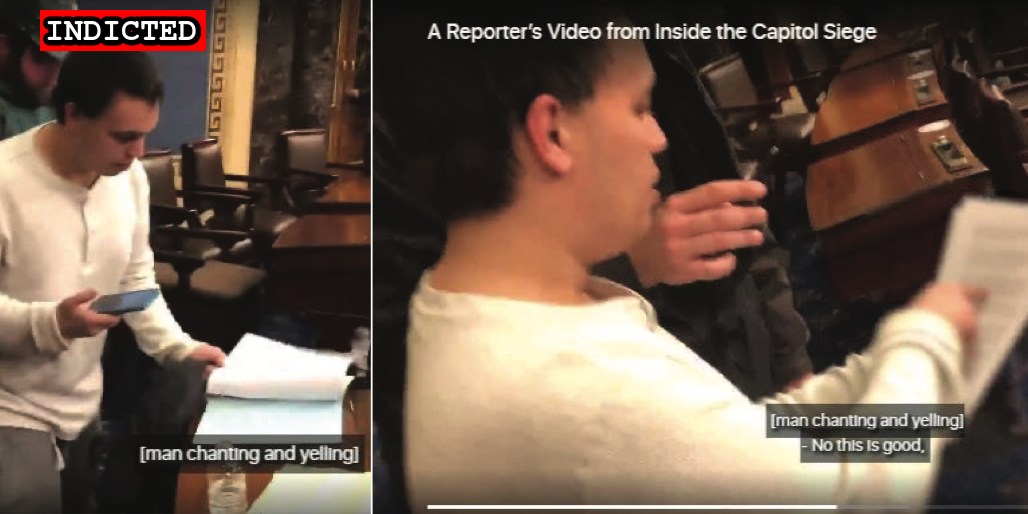
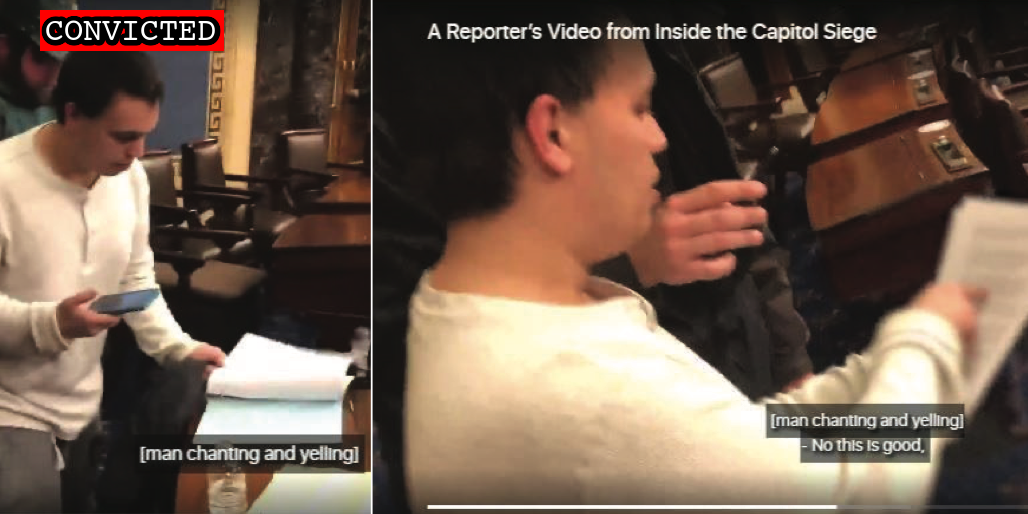
More convictions

Changed region(s): [[0.0311, 0.0, 0.2179, 0.1245]]

diff --git a/commands/common/suspect.ts b/commands/common/suspect.ts
@@ -28,6 +28,7 @@ export interface Suspect {
   deceased?: string;
   plea_hearing?: string;
   trial_date?: string;
+  trial_type?: string;
   sentencing?: string;
   name?: string;
   lastName?: string;
@@ -176,6 +177,10 @@ export const getSuspectByFile = (filename: string) => {
     suspect.quote = RegExp.$1;
   }
 
+  if (data.match(/trial_type: (.*)/)) {
+    suspect.trial_type = RegExp.$1;
+  }
+
   suspect.charges = getCharges(data.split("---")[1].trim());
   suspect.videos = getVideos(data.split("---")[1].trim());
   suspect.sentence = getSentence(data.split("---")[1].trim());
@@ -203,6 +208,7 @@ export const updateSuspect = (suspect: Suspect) => {
   lines.push(`deceased: ${suspect.deceased}`);
   lines.push(`plea_hearing: ${suspect.plea_hearing}`);
   lines.push(`trial_date: ${suspect.trial_date}`);
+  lines.push(`trial_type: ${suspect.trial_type}`);
   lines.push(`sentencing: ${suspect.sentencing}`);
   lines.push(`age: ${suspect.age}`);
   lines.push(`occupation: ${suspect.occupation}`);

diff --git a/commands/sheet-publish.ts b/commands/sheet-publish.ts
@@ -43,6 +43,7 @@ const publishSheet = async () => {
     "Indicted",
     "Plea Hearing",
     "Trial Date",
+    "Trial Type",
     "Convicted",
     "Sentencing",
     "Sentenced",
@@ -66,7 +67,7 @@ const publishSheet = async () => {
   const headerFormat: TextFormat = {
     bold: true,
   };
-  await suspectSheet.loadCells("A1:AB1");
+  await suspectSheet.loadCells("A1:AC1");
 
   SUSPECT_HEADERS.forEach((_value, index) => {
     const cell = suspectSheet.getCell(0, index);
@@ -106,6 +107,7 @@ const publishSheet = async () => {
       Indicted: suspect.indicted,
       "Plea Hearing": suspect.plea_hearing,
       "Trial Date": suspect.trial_date,
+      "Trial Type": suspect.trial_type,
       Convicted: suspect.convicted,
       Sentencing: suspect.sentencing,
       Sentenced: suspect.sentenced,

diff --git a/docs/_layouts/suspect.html b/docs/_layouts/suspect.html
@@ -32,6 +32,8 @@ layout: default
   <div>Indicted: <small>{{ page.indicted | date: "%Y-%m-%d"}}</small></div>
   {% endif %} {% if page.trial_date %}
   <div>Trial Date: <small>{{ page.trial_date | date: "%Y-%m-%d"}}</small></div>
+  {% endif %} {% if page.trial_type %}
+  <div>Trial Type: <small>{{ page.trial_type }}</small></div>
   {% endif %} {% if page.acquitted %}
   <div>Acquitted: <small>{{ page.acquitted | date: "%Y-%m-%d"}}</small></div>
   {% endif %} {% if page.convicted %}

diff --git a/docs/_suspects/dustin-thompson.md b/docs/_suspects/dustin-thompson.md
@@ -15,6 +15,7 @@ dismissed:
 deceased:
 plea_hearing: 2022-04-14
 trial_date: 2022-04-12
+trial_type: Jury
 sentencing:
 age: 36
 occupation:
@@ -36,32 +37,33 @@ published: true
 caseNumber: 1:21-cr-161
 videos:
 charges:
-- code: 18 USC § 1512(c)(2)
-  title: Obstruction of an Official Proceeding
-  url: https://www.law.cornell.edu/uscode/text/18/1512
-  felony: true
-- code: 18 USC § 641
-  title: Theft of Government Property
-  url: https://www.law.cornell.edu/uscode/text/18/641
-  felony: false
-- code: 18 USC § 1752(a)(1)
-  title: Entering a restricted building or grounds
-  url: https://www.law.cornell.edu/uscode/text/18/1752
-  felony: false
-- code: 18 USC § 1752(a)(2)
-  title: Disorderly and Disruptive Conduct in a Restricted Building or Grounds
-  url: https://www.law.cornell.edu/uscode/text/18/1752
-  felony:
-- code: 40 USC § 5104(e)(2)(D)
-  title: Disorderly Conduct in a Capitol Building
-  url: https://www.law.cornell.edu/uscode/text/40/5104
-  felony: false
-- code: 40 USC § 5104(e)(2)(G)
-  title: Parading, demonstrating or picketing in a Capitol building
-  url: https://www.law.cornell.edu/uscode/text/40/5104
-  felony: false
+  - code: 18 USC § 1512(c)(2)
+    title: Obstruction of an Official Proceeding
+    url: https://www.law.cornell.edu/uscode/text/18/1512
+    felony: true
+  - code: 18 USC § 641
+    title: Theft of Government Property
+    url: https://www.law.cornell.edu/uscode/text/18/641
+    felony: false
+  - code: 18 USC § 1752(a)(1)
+    title: Entering a restricted building or grounds
+    url: https://www.law.cornell.edu/uscode/text/18/1752
+    felony: false
+  - code: 18 USC § 1752(a)(2)
+    title: Disorderly and Disruptive Conduct in a Restricted Building or Grounds
+    url: https://www.law.cornell.edu/uscode/text/18/1752
+    felony:
+  - code: 40 USC § 5104(e)(2)(D)
+    title: Disorderly Conduct in a Capitol Building
+    url: https://www.law.cornell.edu/uscode/text/40/5104
+    felony: false
+  - code: 40 USC § 5104(e)(2)(G)
+    title: Parading, demonstrating or picketing in a Capitol building
+    url: https://www.law.cornell.edu/uscode/text/40/5104
+    felony: false
 sentence:
 ---
+
 - [News Report](https://www.fox19.com/2021/01/26/fbi-more-ohioans-charged-violent-us-capitol-protest/)
 - [Complaint](https://www.justice.gov/opa/page/file/1361301/download)
 - [Statement of Facts](https://www.justice.gov/opa/page/file/1361301/download)

diff --git a/docs/_suspects/christopher-moynihan.md b/docs/_suspects/christopher-moynihan.md
@@ -4,15 +4,18 @@ lastName: Moynihan
 hashtag: ChristopherMoynihan
 aka:
 residence: New York
-status: Indicted
+status: Convicted
 date: 2021-02-25
 charged: 2021-02-25
 indicted: 2021-03-17
-convicted:
+convicted: 2022-08-23
+acquitted:
 sentenced:
 dismissed:
 deceased:
 plea_hearing: 2022-08-23
+trial_date:
+trial_type:
 sentencing:
 age: 30
 occupation:
@@ -34,6 +37,30 @@ published: true
 caseNumber: 1:21-cr-226
 videos:
 charges:
+  - code: 18 USC § 1512(c)(2),2
+    title: Obstruction of an Official Proceeding (Aiding and Abetting)
+    url: https://www.law.cornell.edu/uscode/text/18/1512
+    felony: true
+  - code: 18 USC § 1752(a)(1)
+    title: Entering a restricted building or grounds
+    url: https://www.law.cornell.edu/uscode/text/18/1752
+    felony: false
+  - code: 18 USC § 1752(a)(2)
+    title: Disorderly and disruptive conduct in a restricted building or grounds
+    url: https://www.law.cornell.edu/uscode/text/18/1752
+    felony: false
+  - code: 40 USC § 5104(e)(2)(A)
+    title: Entering and Remaining on the Floor of Congress
+    url: https://www.law.cornell.edu/uscode/text/40/5104
+    felony: false
+  - code: 40 USC § 5104(e)(2)(D)
+    title: Disorderly Conduct in a Capitol Building
+    url: https://www.law.cornell.edu/uscode/text/40/5104
+    felony: false
+  - code: 40 USC § 5104(e)(2)(G)
+    title: Parading, demonstrating or picketing in a Capitol building
+    url: https://www.law.cornell.edu/uscode/text/40/5104
+    felony: false
 sentence:
 ---
 
@@ -42,3 +69,4 @@ sentence:
 - [FBI Statement (Twitter)](https://twitter.com/NewYorkFBI/status/1365060189255311367)
 - [Statement of Facts](https://www.justice.gov/usao-dc/case-multi-defendant/file/1379046/download)
 - [Indictment](https://www.justice.gov/usao-dc/case-multi-defendant/file/1379051/download)
+- [DOJ Statement (Conviction)](https://www.justice.gov/usao-dc/pr/new-york-man-found-guilty-felony-charge-actions-during-jan-6-capitol-breach)

diff --git a/docs/_suspects/william-reid.md b/docs/_suspects/william-reid.md
@@ -12,8 +12,10 @@ convicted:
 sentenced:
 dismissed:
 deceased:
-plea_hearing: 2022-08-23
-sentencing:
+plea_hearing:
+trial_date: 2022-08-23
+trial_type: Stipulated Bench Trial
+sentencing: 2022-12-07
 age: 36
 occupation:
 affiliations:
@@ -35,8 +37,29 @@ caseNumber: 1:21-cr-316
 videos:
 charges:
 sentence:
+  - code: 18 USC § 1752(a)(1)
+    title: Entering a restricted building or grounds
+    url: https://www.law.cornell.edu/uscode/text/18/1752
+    felony: false
+  - code: 18 USC § 1752(a)(2)
+    title: Disorderly and disruptive conduct in a restricted building or grounds
+    url: https://www.law.cornell.edu/uscode/text/18/1752
+    felony: false
+  - code: 40 USC § 5104(e)(2)(D)
+    title: Disorderly Conduct in a Capitol Building
+    url: https://www.law.cornell.edu/uscode/text/40/5104
+    felony: false
+  - code: 40 USC § 5104(e)(2)(G)
+    title: Parading, demonstrating or picketing in a Capitol building
+    url: https://www.law.cornell.edu/uscode/text/40/5104
+    felony: false
+  - code: 18 USC § 1512(c)(1)
+    title: Corruptly Altering, Destroying, Mutilating, or Concealing a Record, Document or Other Object
+    url: https://www.law.cornell.edu/uscode/text/18/1512
+    felony: true
 ---
 
 - [News Report](https://www.nbcmiami.com/news/local/davie-man-arrested-in-capitol-riot-faces-cyberstalking-charge-in-south-florida/2420522/)
 - [Statement of Facts](https://www.justice.gov/opa/case-multi-defendant/file/1382556/download)
 - [Indictment](https://www.justice.gov/usao-dc/case-multi-defendant/file/1392276/download)
+- [DOJ Statement (Conviction)](https://www.justice.gov/usao-dc/pr/new-york-man-found-guilty-felony-charge-actions-during-jan-6-capitol-breach)

diff --git a/docs/_suspects/david-judd.md b/docs/_suspects/david-judd.md
@@ -15,6 +15,7 @@ dismissed:
 deceased:
 plea_hearing:
 trial_date: 2022-08-23
+trial_type: Stipulated Bench Trial
 sentencing: 2023-02-27
 age: 35
 occupation:
@@ -54,3 +55,4 @@ sentence:
 - [Indictment](https://www.justice.gov/usao-dc/case-multi-defendant/file/1410701/download)
 - [Arraignment and Status Conference Hearing Transcript](https://extremism.gwu.edu/sites/g/files/zaxdzs2191/f/McCaughey%20III%20et%20al%20Arraignment%20Hearing%20Status%20and%20Conference%20Transcript.pdf)
 - [Statement of Offense](https://www.justice.gov/usao-dc/case-multi-defendant/file/1528246/download)
+- [DOJ Statement (Conviction)](https://www.justice.gov/usao-dc/pr/three-men-found-guilty-assaulting-officers-during-jan-6-capitol-breach)

diff --git a/docs/_suspects/geoffrey-sills.md b/docs/_suspects/geoffrey-sills.md
@@ -15,6 +15,7 @@ dismissed:
 deceased:
 plea_hearing:
 trial_date: 2022-08-23
+trial_type: Stipulated Bench Trial
 sentencing: 2022-11-18
 age: 30
 occupation:
@@ -59,3 +60,4 @@ sentence:
 - [Indictment](https://www.justice.gov/usao-dc/case-multi-defendant/file/1405881/download)
 - [DOJ Press Release](https://www.justice.gov/usao-dc/pr/virginia-man-arrested-assault-law-enforcement-during-jan-6-capitol-breach)
 - [Statement of Facts](https://www.justice.gov/usao-dc/case-multi-defendant/file/1528261/download)
+- [DOJ Statement (Conviction)](https://www.justice.gov/usao-dc/pr/three-men-found-guilty-assaulting-officers-during-jan-6-capitol-breach)

diff --git a/docs/_suspects/robert-morss.md b/docs/_suspects/robert-morss.md
@@ -15,6 +15,7 @@ dismissed:
 deceased:
 plea_hearing:
 trial_date: 2022-08-23
+trial_type: Stipulated Bench Trial
 sentencing: 2023-01-06
 age:
 occupation: Substitute Teacher
@@ -88,3 +89,4 @@ sentence:
 - [Indictment](https://www.justice.gov/usao-dc/case-multi-defendant/file/1410701/download)
 - [Closed Circuit Evidence (Video)](https://twitter.com/MacFarlaneNews/status/1417578495291576322)
 - [Body Camera Evidence (Video)](https://twitter.com/ZoeTillman/status/1417586917458292738)
+- [DOJ Statement (Conviction)](https://www.justice.gov/usao-dc/pr/three-men-found-guilty-assaulting-officers-during-jan-6-capitol-breach)

diff --git a/docs/_suspects/matthew-martin.md b/docs/_suspects/matthew-martin.md
@@ -15,6 +15,7 @@ dismissed:
 deceased:
 plea_hearing:
 trial_date: 2022-04-05
+trial_type: Bench Trial
 sentencing:
 age: 42
 occupation: Defense Contractor with Security Clearance
@@ -38,6 +39,7 @@ videos:
 charges:
 sentence:
 ---
+
 - [News Report](https://www.santafenewmexican.com/news/local_news/santa-fe-man-charged-in-capitol-riot/article_a41068ac-a3af-11eb-a485-9bd760829606.html)
 - [Complaint](https://www.justice.gov/usao-dc/case-multi-defendant/file/1388941/download)
 - [Statement of Facts](https://www.justice.gov/usao-dc/case-multi-defendant/file/1388941/download)

diff --git a/docs/_suspects/thomas-robertson.md b/docs/_suspects/thomas-robertson.md
@@ -15,6 +15,7 @@ dismissed:
 deceased:
 plea_hearing: 2022-04-11
 trial_date: 2022-04-06
+trial_type: Jury
 sentencing: 2022-08-11
 age: 47
 occupation: Police Officer (Sergeant)
@@ -57,7 +58,7 @@ charges:
     url: https://www.law.cornell.edu/uscode/text/40/5104
     felony: false
   - code: 18 USC § 1512(c)(1)
-    title: Obstruction of an Official Proceeding
+    title: Corruptly Altering, Destroying, Mutilating, or Concealing a Record, Document or Other Object
     url: https://www.law.cornell.edu/uscode/text/18/1512
     felony: true
 sentence:

diff --git a/docs/_suspects/daniel-leyden.md b/docs/_suspects/daniel-leyden.md
@@ -38,6 +38,8 @@ videos:
 charges:
 sentence:
 ---
+
 - [News Report]()
 - [Complaint](https://www.justice.gov/usao-dc/case-multi-defendant/file/1528146/download)
 - [Statement of Facts](https://www.justice.gov/usao-dc/case-multi-defendant/file/1528151/download)
+- [DOJ Statement (Arrest)](https://www.justice.gov/usao-dc/pr/illinois-men-arrested-felony-and-misdemeanor-charges-actions-during-jan-6-capitol-breach)
